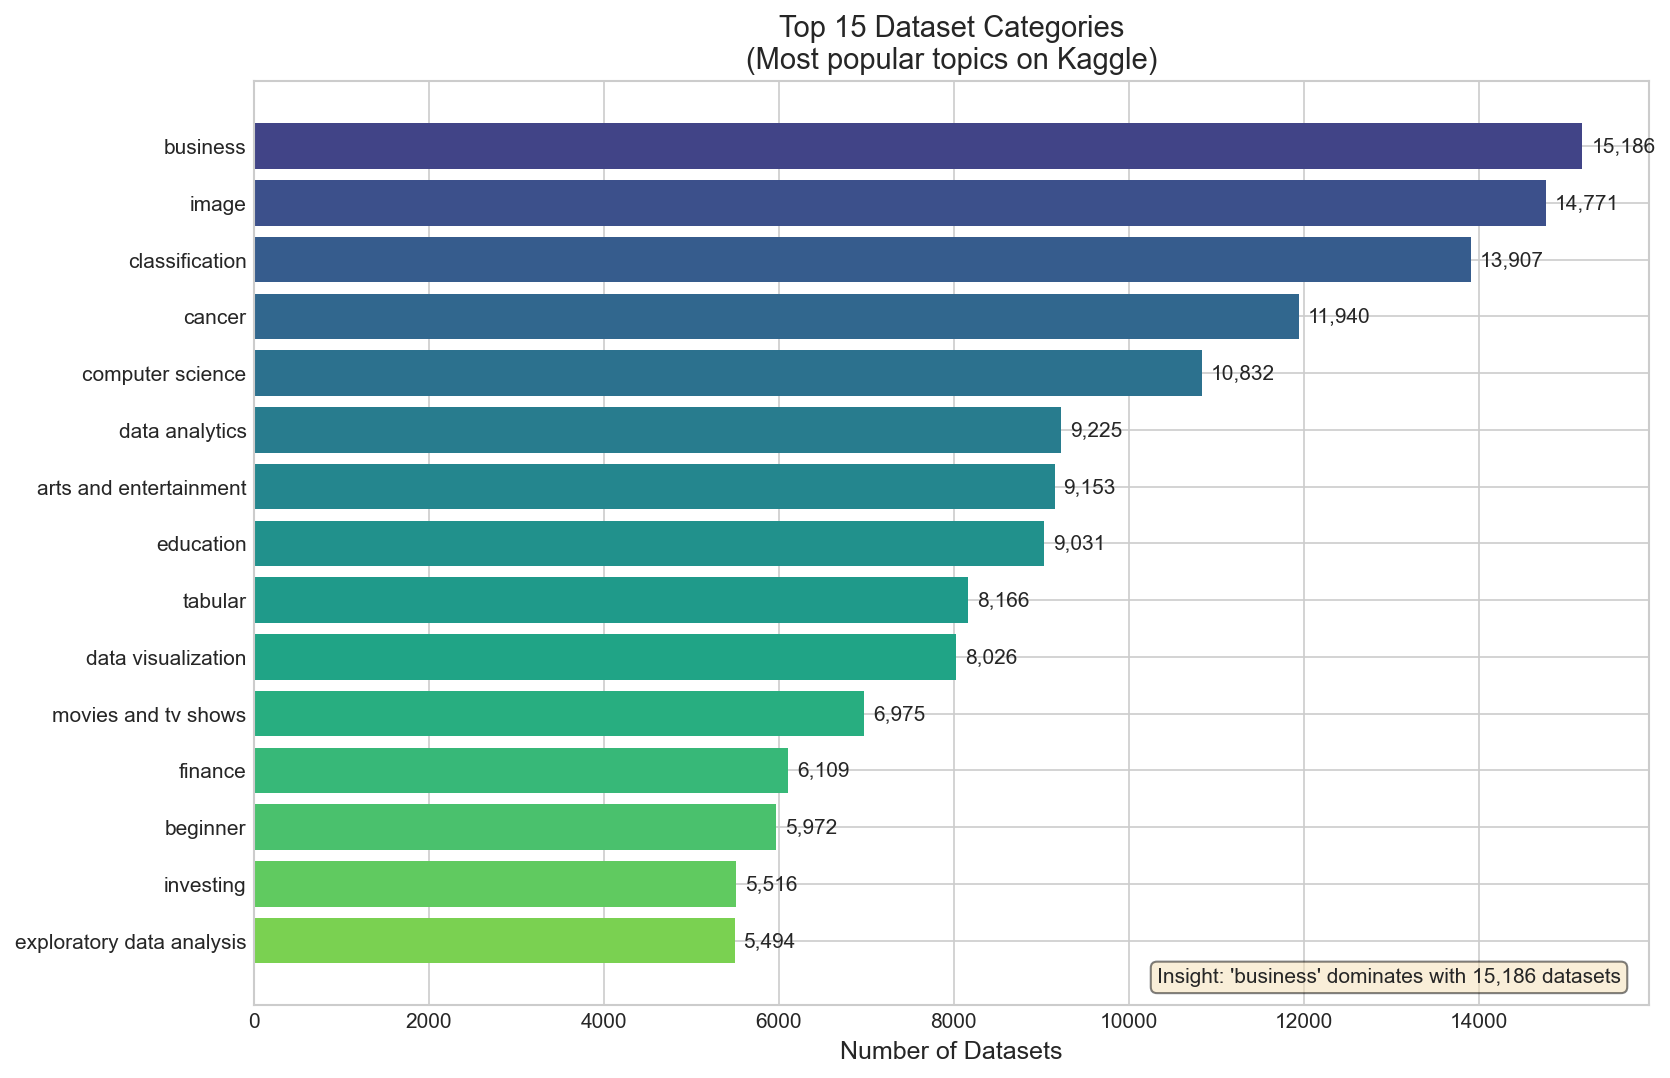
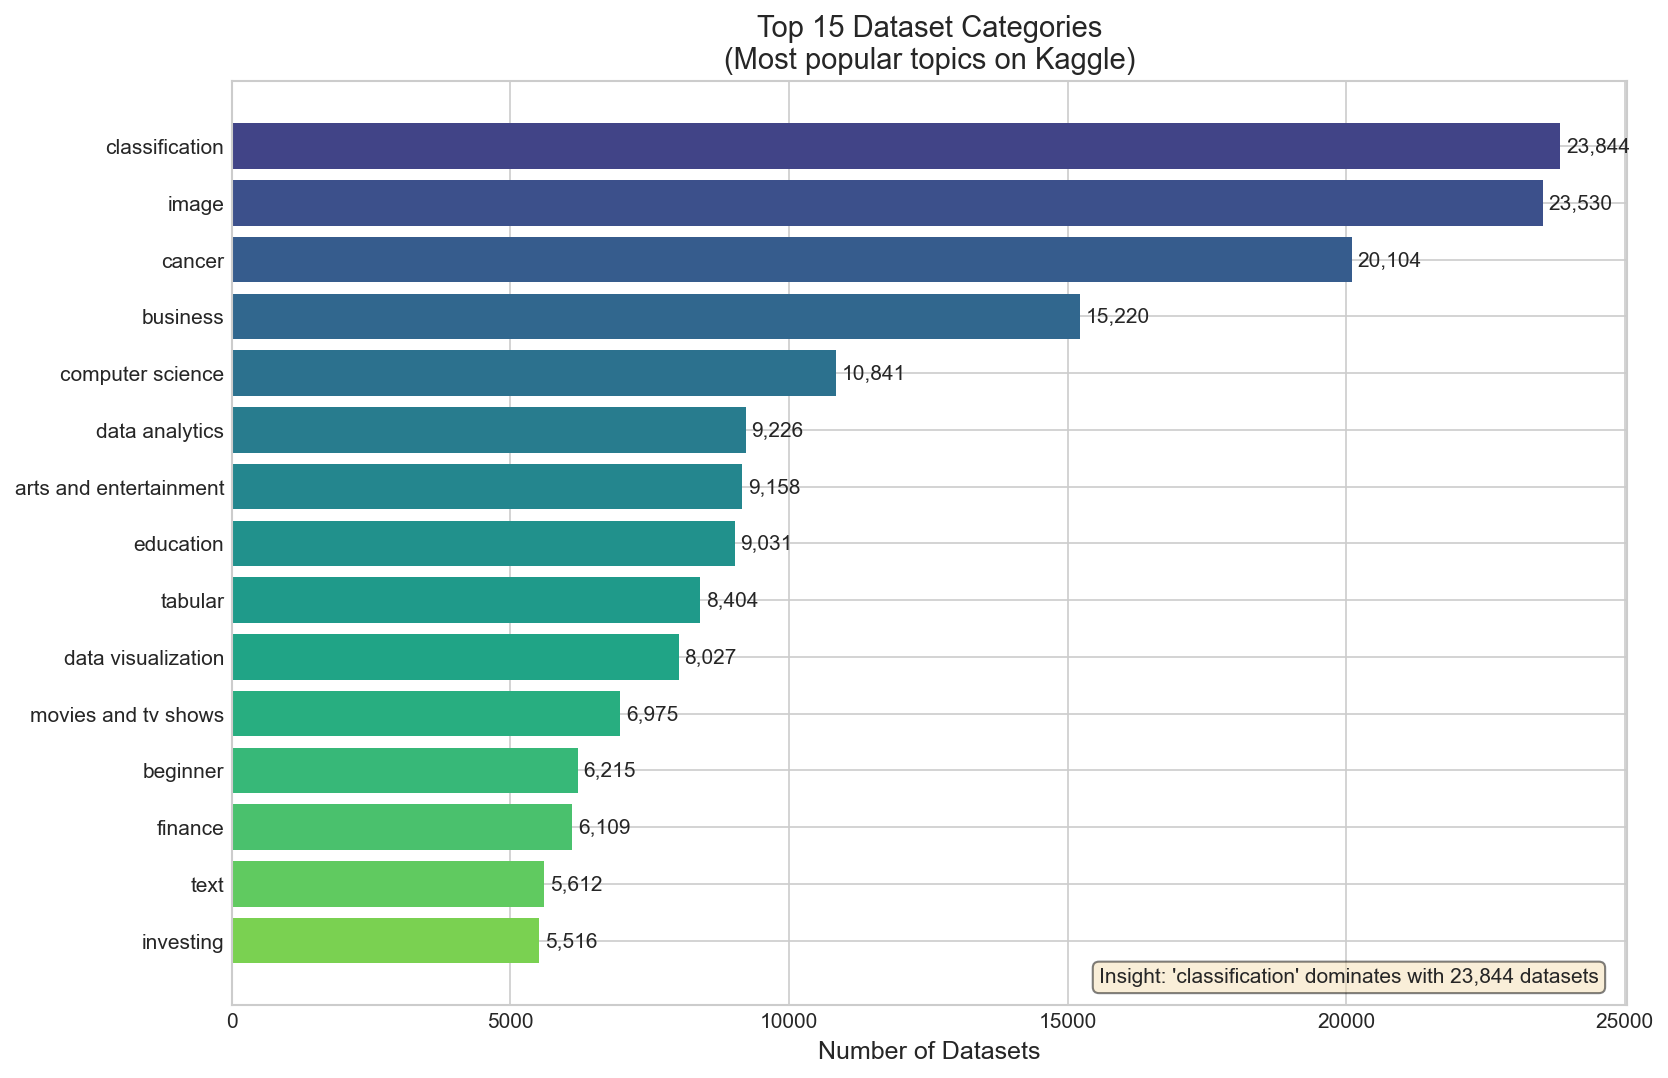
analyse

diff --git a/analyse.py b/analyse.py
@@ -624,7 +624,9 @@ Based on this analysis, here are actionable tips:
 
 ---
 
-## Data Collection
+## Data Source
+
+📊 **Dataset:** [Kaggle Datasets Metadata](https://www.kaggle.com/datasets/ismetsemedov/kaggle-datasets)
 
 This analysis is based on data collected from Kaggle's public dataset API, covering {stats['total_datasets']:,} unique datasets across all categories and time periods.
 

diff --git a/README.md b/README.md
@@ -1,18 +1,18 @@
 # Kaggle Dataset Ecosystem Analysis
 
-> Comprehensive analysis of **112,691** Kaggle datasets to understand engagement patterns and ecosystem dynamics.
+> Comprehensive analysis of **122,629** Kaggle datasets to understand engagement patterns and ecosystem dynamics.
 
 ## Key Metrics
 
 | Metric | Value |
 |--------|-------|
-| Total Datasets Analyzed | **112,691** |
-| Total Views | **823,055,722** |
-| Total Downloads | **132,154,427** |
-| Total Votes | **1,988,437** |
+| Total Datasets Analyzed | **122,629** |
+| Total Views | **828,422,590** |
+| Total Downloads | **132,775,416** |
+| Total Votes | **2,001,496** |
 | Average Usability Score | **0.62** |
-| Top Category | **business** (15,186 datasets) |
-| Most Active Tier | **CONTRIBUTOR** (78,584 datasets) |
+| Top Category | **classification** (23,844 datasets) |
+| Most Active Tier | **CONTRIBUTOR** (87,997 datasets) |
 
 ---
 
@@ -113,8 +113,10 @@ Based on this analysis, here are actionable tips:
 
 ---
 
-## Data Collection
+## Data Source
 
-This analysis is based on data collected from Kaggle's public dataset API, covering 112,691 unique datasets across all categories and time periods.
+📊 **Dataset:** [Kaggle Datasets Metadata](https://www.kaggle.com/datasets/ismetsemedov/kaggle-datasets)
 
-**Last Updated:** 2025-12-19 08:32
+This analysis is based on data collected from Kaggle's public dataset API, covering 122,629 unique datasets across all categories and time periods.
+
+**Last Updated:** 2025-12-19 12:20
